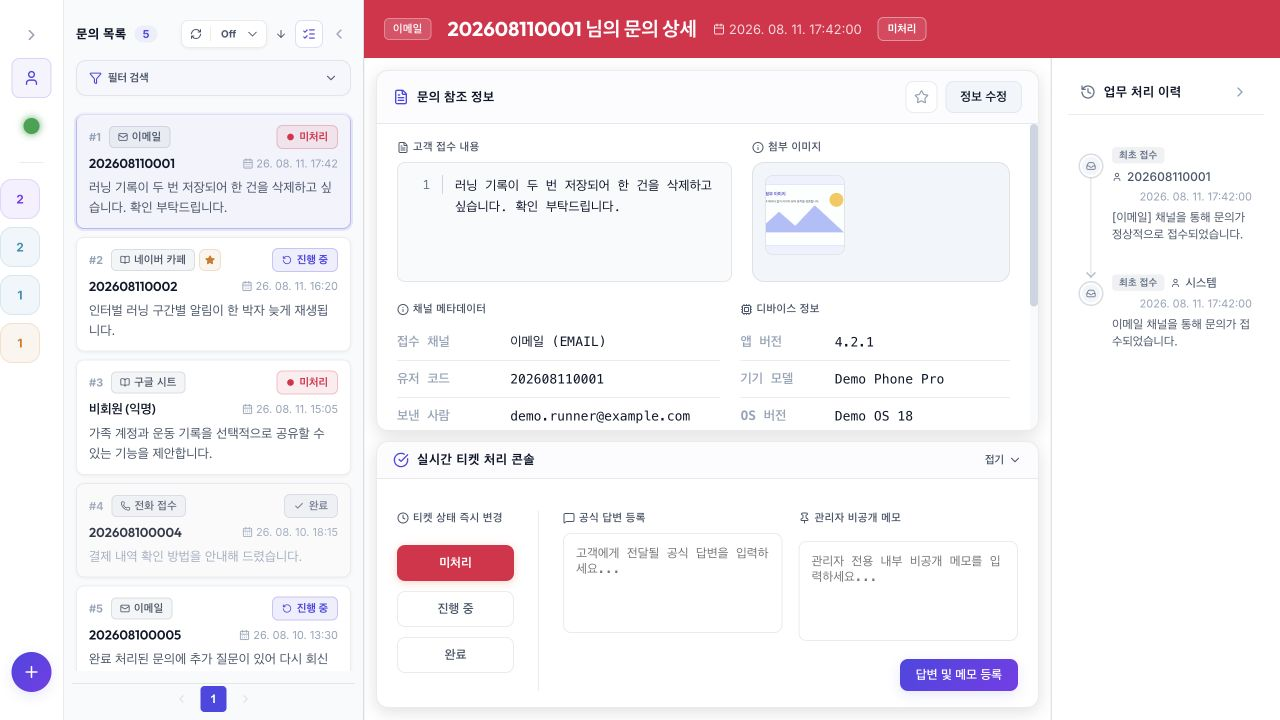
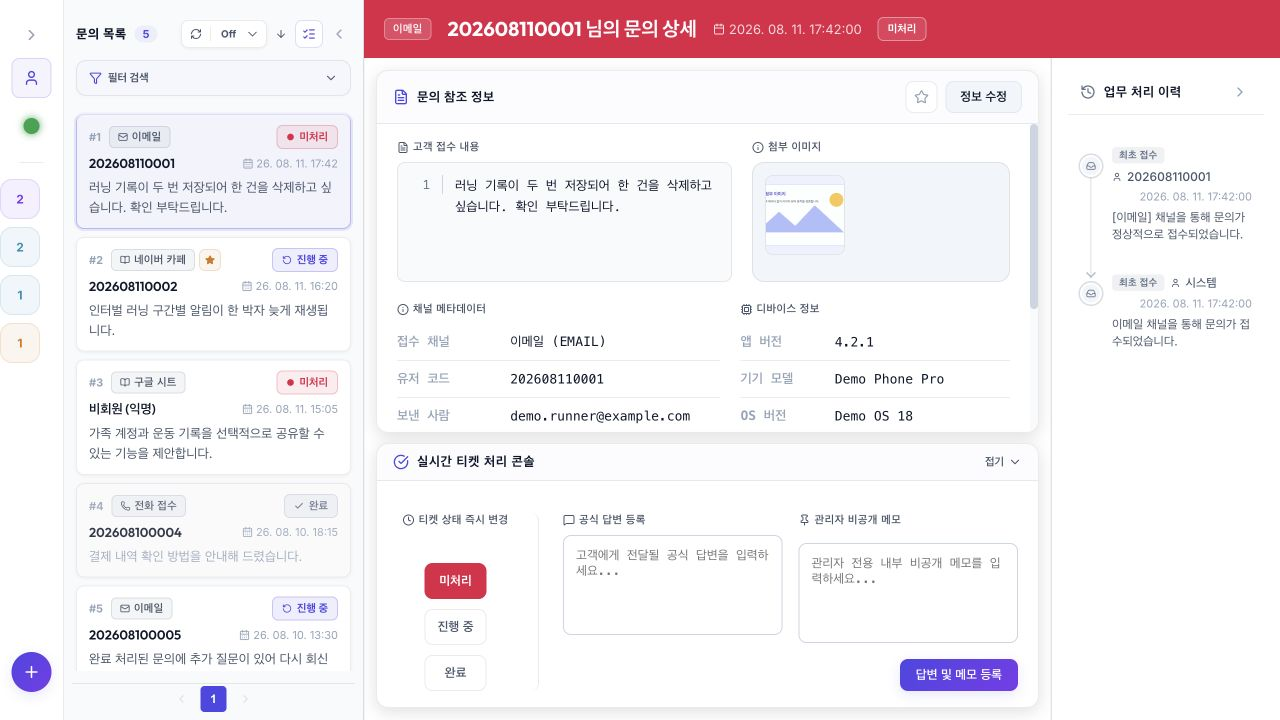
docs: refresh frontend architecture tour

diff --git a/README.md b/README.md
@@ -94,9 +94,11 @@ flowchart LR
 
 이 정책은 브라우저 없이 [Node 내장 테스트](apps/frontend/tests)로 실행됩니다.
 
-`App.tsx`에서는 개인화 사이드바를 `AdminSidebar`로 분리하고, 계정 메뉴와 네이버 세션 상태도 전용 위젯으로 옮겼습니다. `InquiryDetailPanel.tsx`에서는 작업 이력·회신 조회를 `useInquiryActivity`, 수정값 검증·이미지 업로드·저장을 `useInquiryFieldEditor`, 채널·디바이스 표시를 `InquiryMetadataSections`가 담당합니다. 타임라인과 이미지 뷰어 역시 전용 컴포넌트로 유지합니다.
+`App.tsx`에서는 개인화 사이드바를 `AdminSidebar`, 목록·배치·페이지네이션을 [InquiryWorkspacePane](apps/frontend/src/components/InquiryWorkspacePane.tsx), 선택 상세를 [SelectedInquiryPane](apps/frontend/src/components/SelectedInquiryPane.tsx)으로 분리했습니다. 운영자·네이버 세션·통계·목록 리사이즈는 각각 전용 훅이 소유합니다.
 
-이 분리 후 `App.tsx`는 2,343줄에서 1,213줄로, `InquiryDetailPanel.tsx`는 2,240줄에서 1,393줄로 줄었습니다. 줄 수 자체보다 API 상태 조율, 사이드바 개인화, 필드 편집 트랜잭션, 상세 표현을 서로 독립적으로 변경할 수 있게 된 점을 기준으로 경계를 정했습니다.
+`InquiryDetailPanel.tsx`에서는 작업 이력·회신 조회를 `useInquiryActivity`, 수정값 검증·이미지 업로드·저장을 `useInquiryFieldEditor`, 답변·상태·즐겨찾기 명령을 [useInquiryActions](apps/frontend/src/hooks/useInquiryActions.ts)가 담당합니다. 헤더·처리 콘솔·이력 열도 각각 독립 컴포넌트로 분리했습니다.
+
+현재 기준으로 `App.tsx`는 2,343줄에서 776줄로, `InquiryDetailPanel.tsx`는 2,240줄에서 786줄로 줄었습니다. 줄 수 자체보다 목록 조회, 상세 편집, 처리 명령, 이력 표현을 서로 독립적으로 변경할 수 있는지를 경계로 삼았습니다.
 
 다음 화면은 실제 고객 데이터가 아닌 [합성 fixture](scripts/showcase-server.mjs)로 이미지 선택과 확대 동작을 검증한 결과입니다.
 

diff --git a/docs/docs/code-architecture.md b/docs/docs/code-architecture.md
@@ -46,6 +46,9 @@ flowchart LR
   - `OperatorWidget.tsx`: 계정 정보와 권한별 관리자 도구 진입점
   - `NaverSessionWidget.tsx`: 네이버 세션 상태 표시와 갱신 명령
   - `InquiryDetailPanel.tsx`: 선택 문의의 상세 섹션과 처리 명령 조립
+  - `InquiryWorkspacePane.tsx`: 목록 열, 배치 선택 UI, 페이지네이션 표현
+  - `SelectedInquiryPane.tsx`: 선택 상세와 빈 상태 전환
+  - `InquiryDetailHeader.tsx`, `InquiryWorkConsole.tsx`, `InquiryHistoryPane.tsx`: 상세 헤더, 처리 명령, 이력 열 표현
   - `InquiryMetadataSections.tsx`: 채널별 메타데이터와 디바이스 표시·편집
   - `InquiryActionModal.tsx`: 상태 변경·작업 기록·즐겨찾기 확인 계약
   - `InquiryTimeline.tsx`: 작업 로그·회신 타임라인 표현
@@ -58,6 +61,8 @@ flowchart LR
 - `src/hooks/useAutoRefresh.ts`: 자동 갱신 주기와 실행 생명주기
 - `src/hooks/useInquiryActivity.ts`: 작업 이력·회신 조회와 외부 데이터 갱신
 - `src/hooks/useInquiryFieldEditor.ts`: 필드 변경 감지, 사유 검증, 이미지 업로드와 저장
+- `src/hooks/useInquiryActions.ts`: 답변·메모·상태·즐겨찾기 명령과 확인 모달 상태
+- `src/hooks/useOperatorSession.ts`, `useNaverSession.ts`, `useInquiryStats.ts`: 최상위 운영 상태와 API 생명주기
 - `src/types/inquiry.ts`: 서버 계약과 UI 상태에 사용하는 TypeScript 타입
 
 `App.tsx`는 API 상태와 문의 작업 흐름을 조율하고, `InquiryDetailPanel.tsx`는 상세 화면 배치와 사용자 명령을 조립한다. 사이드바 개인화와 상세 데이터 조회·편집은 전용 컴포넌트와 훅이 소유한다. 순수 사용자 맥락 정책은 DOM 없이 테스트하고, `conventionGuard.test.ts`는 공유 HTTP·모달·피드백 경계의 우회를 소스 수준에서 차단한다. 컴포넌트 조합은 합성 showcase를 데스크톱과 `390x844`에서 실행해 검증한다.

diff --git a/docs/docs/refactoring-roadmap.md b/docs/docs/refactoring-roadmap.md
@@ -161,6 +161,17 @@ README에서 다음 순서로 코드를 탐색할 수 있도록 만든다.
 
 현재 기준 `App.tsx`는 1,213줄, `InquiryDetailPanel.tsx`는 1,393줄이다. 이번 단계는 줄 수보다 같은 사용자 의도에 같은 검증·오류·트랜잭션 정책이 적용되는지를 완료 조건으로 삼았다.
 
+### Milestone 8. 화면 조립 경계 마무리
+
+- [x] 목록 열·배치 선택·페이지네이션을 `InquiryWorkspacePane`으로 이동
+- [x] 선택 상세와 빈 상태를 `SelectedInquiryPane`으로 이동
+- [x] 최상위 운영자·네이버 세션·통계·리사이즈 상태를 전용 훅으로 이동
+- [x] 상세 답변·상태·즐겨찾기 명령을 `useInquiryActions`로 이동
+- [x] 상세 헤더·처리 콘솔·이력 열을 독립 컴포넌트로 이동
+- [x] 데스크톱 상호작용과 `390x844` overflow 회귀 검증
+
+현재 기준 `App.tsx`는 776줄, `InquiryDetailPanel.tsx`는 786줄이다. 두 파일은 데이터 흐름과 화면 배치를 조율하고, 독립적인 상태 생명주기와 화면 영역은 각각 훅과 컴포넌트가 소유한다.
+
 ## 브랜치와 커밋 전략
 
 작업 브랜치는 `refactor/portfolio-readiness`를 사용한다. 커밋은 다음 규칙을 따른다.
